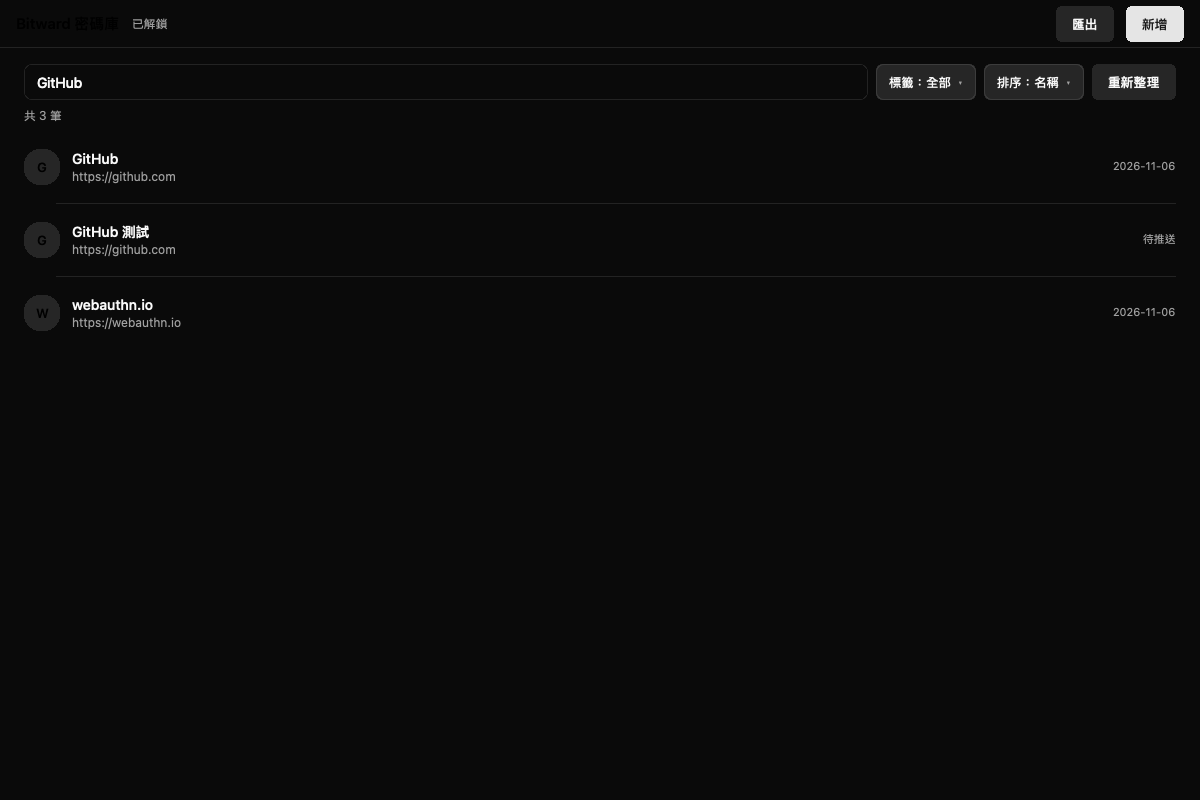
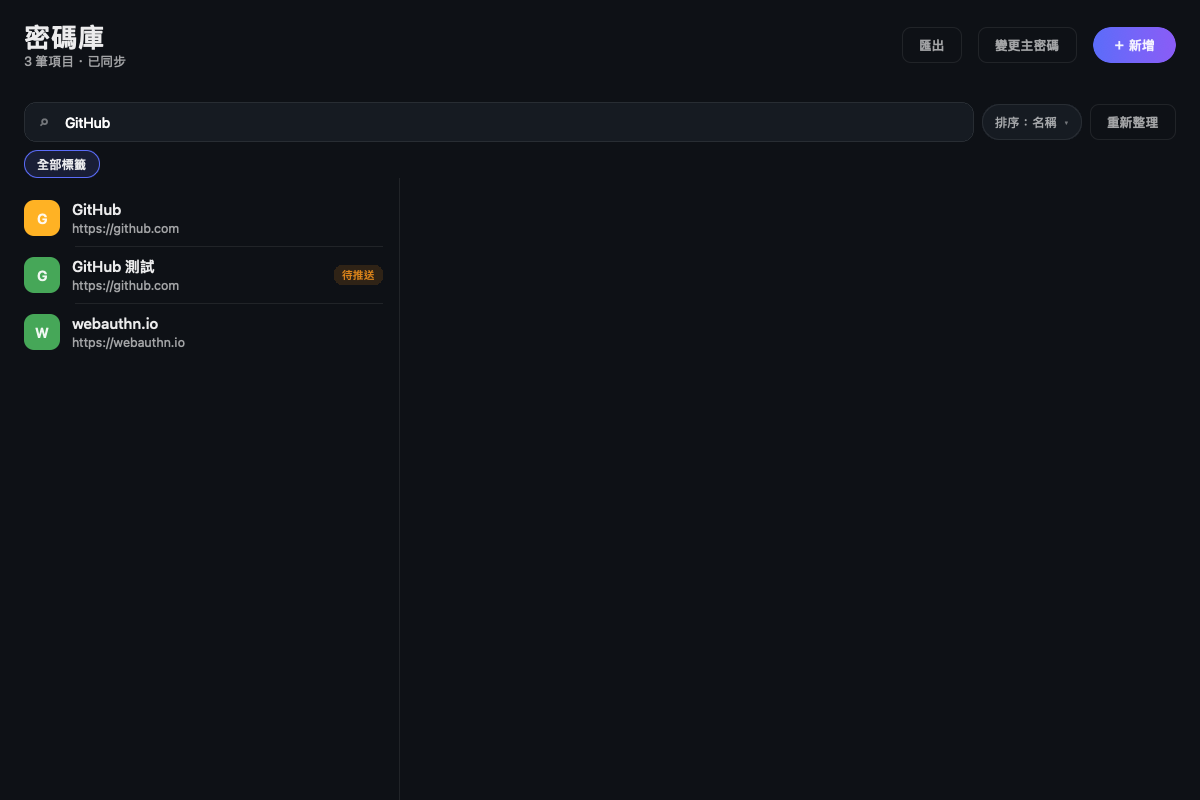
gui: 重設計截圖證據（shot-1..15 全更新）＋ README 跟隨
截圖 e2e 跟隨新視圖：shot-8 由「標籤下拉開啟」改「ChooseTag(dev) 後
chips 選中」；刪除流程先 ConfirmNo 斷言項目仍在、再 ConfirmYes 真刪
（run log：delete-cancel kept item = true）；reveal 步加 set_clipboard
探針（複製鈕同路徑）。15 張 shot-N-*.png 以重設計後的 UI 重跑更新；
README 架構表與驗收流說明同步。檔名維持相容。

diff --git a/apps/bitward-gui/src/shots.rs b/apps/bitward-gui/src/shots.rs
@@ -146,8 +146,9 @@ fn at(ms: u64, f: impl FnOnce() + 'static) {
 }
 
 /// 開窗後依序跑完整驗收流：列表（搜尋）→ 詳情遮罩 → revealed → 新增表單
-/// → 提交新增 → 編輯改名 → 刪除確認 → 匯出確認 → 鎖態/解鎖，
-/// 各步存一張 shot-N-*.png 後結束行程。時序裕量對齊 spike（Background
+/// 模態 → 提交新增 → 編輯改名 → 刪除確認（先取消斷言、再確認）→
+/// 匯出確認 → 鎖態頁/解鎖，各步存一張 shot-N-*.png 後結束行程。時序裕量對齊
+/// spike（Background
 /// session 無 vsync 可等，固定 sleep；本地 daemon 往返 <50ms）。
 /// 詳情目標用驗收種子項目「GitHub 測試」，找不到退回第一筆。
 pub fn script(dir: PathBuf, core: AppCore) {
@@ -167,7 +168,11 @@ pub fn script(dir: PathBuf, core: AppCore) {
     let d = dir.clone();
     at(4200, move || capture(&d, "shot-2-detail-masked.png"));
     let c = core.clone();
-    at(4500, move || c.send(Cmd::RequestReveal));
+    at(4500, move || {
+        c.send(Cmd::RequestReveal);
+        // 複製鈕同路徑的剪貼簿環境呼叫（e2e 側探針：不能炸）。
+        set_clipboard("bitward-gui-e2e-clipboard-probe");
+    });
     let d = dir.clone();
     at(5700, move || capture(&d, "shot-3-detail-revealed.png"));
     let c = core.clone();
@@ -211,7 +216,7 @@ pub fn script(dir: PathBuf, core: AppCore) {
     let d = dir.clone();
     at(10900, move || capture(&d, "shot-6-totp-denied.png"));
 
-    // —— 排序與標籤下拉（回列表操作）——
+    // —— 排序下拉與標籤 chips（標籤已改 chips 行：選中描邊即證據）——
     let c = core.clone();
     at(11100, move || {
         c.send(Cmd::OpenList);
@@ -222,12 +227,12 @@ pub fn script(dir: PathBuf, core: AppCore) {
     let c = core.clone();
     at(11900, move || {
         c.send(Cmd::ToggleSortMenu);
-        c.send(Cmd::ToggleTagMenu);
+        c.send(Cmd::ChooseTag(Some("dev".into())));
     });
     let d = dir.clone();
     at(12500, move || capture(&d, "shot-8-tag-menu.png"));
     let c = core.clone();
-    at(12700, move || c.send(Cmd::ToggleTagMenu));
+    at(12700, move || c.send(Cmd::ChooseTag(None)));
 
     // —— 編輯改名（Vault:Patch）——
     let c = core.clone();
@@ -243,7 +248,7 @@ pub fn script(dir: PathBuf, core: AppCore) {
     let d = dir.clone();
     at(14600, move || capture(&d, "shot-9-edited.png"));
 
-    // —— 刪除確認框 → Vault:Delete ——
+    // —— 刪除確認框：先取消（斷言未刪）再yes走 Vault:Delete ——
     let c = core.clone();
     at(14800, move || {
         if let Some(id) = find_id(&c, "E2E 驗證項目改名") {
@@ -253,30 +258,44 @@ pub fn script(dir: PathBuf, core: AppCore) {
     let d = dir.clone();
     at(15300, move || capture(&d, "shot-10-delete-confirm.png"));
     let c = core.clone();
-    at(15600, move || c.send(Cmd::ConfirmYes));
+    at(15600, move || c.send(Cmd::ConfirmNo));
+    let c = core.clone();
+    at(16000, move || {
+        let kept = find_id(&c, "E2E 驗證項目改名").is_some();
+        println!("bitward-gui: delete-cancel kept item = {kept}");
+        assert!(kept, "取消刪除後項目應仍在");
+    });
+    let c = core.clone();
+    at(16200, move || {
+        if let Some(id) = find_id(&c, "E2E 驗證項目改名") {
+            c.send(Cmd::AskDelete(id));
+        }
+    });
+    let c = core.clone();
+    at(16500, move || c.send(Cmd::ConfirmYes));
     let d = dir.clone();
-    at(16700, move || capture(&d, "shot-11-after-delete.png"));
+    at(17600, move || capture(&d, "shot-11-after-delete.png"));
 
     // —— 鎖態指示 + 解鎖鈕（Auth:Lock → 按鈕 → Auth:Unlock）——
     let c = core.clone();
-    at(16900, move || c.send(Cmd::RequestLock));
+    at(17800, move || c.send(Cmd::RequestLock));
     let d = dir.clone();
-    at(18700, move || capture(&d, "shot-12-locked.png"));
+    at(19600, move || capture(&d, "shot-12-locked.png"));
     let c = core.clone();
-    at(19200, move || c.send(Cmd::RequestUnlock));
+    at(20100, move || c.send(Cmd::RequestUnlock));
     let d = dir.clone();
-    at(21000, move || capture(&d, "shot-13-unlocked.png"));
+    at(21900, move || capture(&d, "shot-13-unlocked.png"));
 
     // —— 匯出：確認框（未加密提醒）→ 逐筆 Reveal → 落盤 ——
     let c = core.clone();
-    at(21400, move || c.send(Cmd::AskExport));
+    at(22300, move || c.send(Cmd::AskExport));
     let d = dir.clone();
-    at(22000, move || capture(&d, "shot-14-export-confirm.png"));
+    at(22900, move || capture(&d, "shot-14-export-confirm.png"));
     let c = core.clone();
-    at(22400, move || c.send(Cmd::ConfirmYes));
+    at(23300, move || c.send(Cmd::ConfirmYes));
     let d = dir.clone();
-    at(24600, move || capture(&d, "shot-15-export-done.png"));
-    at(25200, move || {
+    at(25500, move || capture(&d, "shot-15-export-done.png"));
+    at(26100, move || {
         on_main(|| {
             #[cfg(target_os = "macos")]
             {

diff --git a/apps/bitward-gui/README.md b/apps/bitward-gui/README.md
@@ -34,10 +34,10 @@ BITWARD_GUI_SOCK=<repo>/dev/e2e/demo/s NSH_GUI_SHOTS=$PWD nsh run --target macos
 ```
 
 依指令序列跑完整驗收流並寫 `shot-1..15-*.png` 後退出：列表（搜尋
-"GitHub"）→ 詳情遮罩 → 詳情 revealed → 新增表單 → 真送新增（Create+AddTag）
-→ TOTP 拒絕路徑（無 seed → 錯誤橫條）→ 排序下拉 → 標籤下拉 → 編輯改名
-（Patch）→ 刪除確認框 → 刪除後空列表 → 鎖態（已鎖定+解鎖鈕）→ 解鎖 →
-匯出確認框（未加密提醒）→ 匯出完成提示列。
+"GitHub"）→ 詳情遮罩 → 詳情 revealed → 新增表單模態 → 真送新增（Create+AddTag）
+→ TOTP 拒絕路徑（無 seed → 錯誤橫條）→ 排序下拉 → 標籤 chips 選取 →
+編輯改名（Patch）→ 刪除確認框 → 取消不刪斷言 → 刪除後空列表 →
+鎖態頁（已鎖定+解鎖鈕）→ 解鎖 → 匯出確認框（未加密提醒）→ 匯出完成提示列。
 
 注意：流裡會真寫 demo vault（建一筆 "E2E 驗證項目"、改名、軟刪；
 詳情目標是種子項目「GitHub 測試」，找不到退回第一筆）。跑前用
@@ -50,12 +50,13 @@ BITWARD_GUI_SOCK=<repo>/dev/e2e/demo/s NSH_GUI_SHOTS=$PWD nsh run --target macos
 |---|---|
 | `btp.rs` | BTP 精簡同步 client：u32 LE 長度前綴 + JSON 幀、`Hello{Enroll pair_code:null}`→`Welcome`→`Invoke`/`Reply`；鎖撤銷（A6）自動重連重 Enroll 一次 |
 | `state.rs` | 應用狀態機：`AppCore`（訊號集）+ `Cmd` 命令佇列 + 唯一 `reduce`；UI handler 只投遞命令，worker 執行緒只回傳命令，訊號全在引擎執行緒寫入 |
-| `lib.rs` | 根元件 `App`：命令幫浦（`set_interval` 50ms + `batch`）、標題列（鎖態/解鎖/匯出/新增/提示列）、錯誤橫條、Phase×Route 路由 |
-| `list.rs` | 搜尋框（Query.text 交 daemon FTS）、標籤下拉（選項取自本地載入清單、比對交 daemon）、排序選單、pending 徽章、`virtual_list` |
-| `detail.rs` | metadata 全欄位；密碼遮罩 →「顯示密碼」發 Get(Reveal)，明文只存 `revealed` 訊號、離開詳情即清；TOTP 按鈕發 Use:TotpCode |
-| `form.rs` | 新增/編輯表單（name/username/password/uri/tags） |
+| `lib.rs` | 根元件 `App`：命令幫浦（`set_interval` 50ms + `batch`）、大標題列（N 筆項目副行/匯出/改密/新增）、錯誤橫條、Phase×Route 主從式版面與鎖態頁 |
+| `list.rs` | 全寬圓角搜尋框（Query.text 交 daemon FTS）、標籤 chips 行（選項取自本地載入清單、比對交 daemon）、排序選單、56px 列（monogram 派生色、選中列 accent 指示條）、pending 徽章、`virtual_list` |
+| `detail.rs` | 右欄詳情面板：identity 卡（大 monogram＋連結色 url）＋分節欄位（帳密／TOTP）；每欄複製鈕（剪貼簿＋success 回饋 1 秒）；密碼遮罩 →「顯示密碼」發 Get(Reveal)，明文只存 `revealed` 訊號、離開詳情即清；TOTP 按鈕發 Use:TotpCode |
+| `form.rs` | 新增/編輯模態（elevated 卡＋背板點擊取消；name/username/password/uri/tags） |
 | `export.rs` | 未加密 JSON 匯出：逐筆 Get(Reveal) → `~/Downloads/bitward-export-<UTC>.json`（0600） |
-| `ui.rs` | 按鈕/徽章/表單欄/下拉列/確認模態（absolute 鋪滿 + 置中卡） |
+| `theme.rs` | 設計 tokens：三層暗色背景、accent 漸變、語意色、文字三級、monogram 8 色盤（名字 FNV hash 穩定派生）；視圖層唯一顏色真相源，禁散落 hex |
+| `ui.rs` | 共用小元件：按鈕（primary 漸變/ghost/destructive）、monogram、徽章、表單欄、下拉列、模態殼（absolute 鋪滿 + 置中 elevated 卡）、確認/改密模態、複製鈕 |
 | `shots.rs` | `NSH_GUI_SHOTS` 自我截圖器（AppKit `cacheDisplayInRect` 路徑，不需 TCC；objc2 經 `nsh_platform_macos` 再匯取） |
 
 導航是 `Route` 狀態機 + `when` 區塊——不用 `nav_stack`（spike FINDINGS
